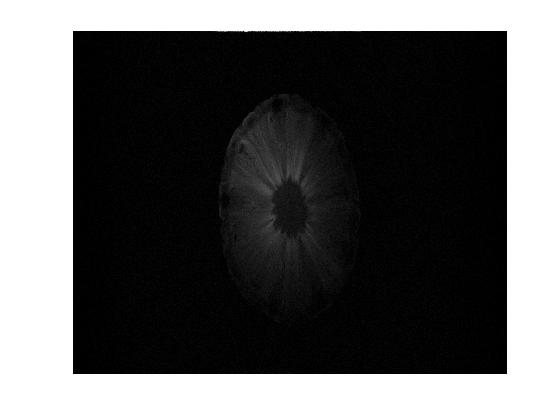
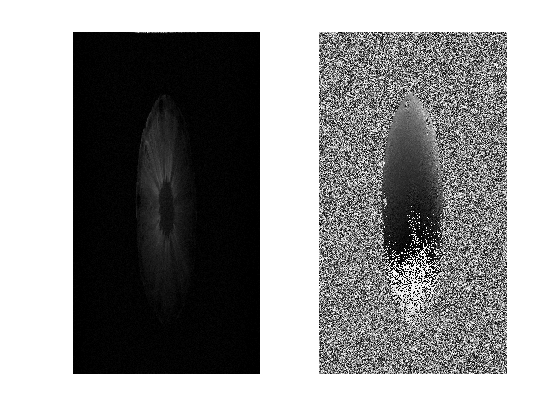
updated for plotting and taking absolute value after rss"

diff --git a/homework/hw1/html/MR_hw1_3.html b/homework/hw1/html/MR_hw1_3.html
@@ -84,21 +84,25 @@ figure
 <span class="keyword">end</span>
 </pre><img vspace="5" hspace="5" src="MR_hw1_3_01.png" alt=""> <img vspace="5" hspace="5" src="MR_hw1_3_02.png" alt=""> <h2>part 2<a name="3"></a></h2><pre class="codeinput">im = zeros(size(data));
 <span class="keyword">for</span> i=1:size(data,3)
-    temp = fftshift(fft2(ifftshift(data(:,:,i))));
+    temp = ifftshift(fft2(fftshift(data(:,:,i))));
     im(:,:,1) = temp;
 <span class="keyword">end</span>
 
 im_rss = zeros(size(im(:,:,1)));
 <span class="keyword">for</span> i=1:size(im,1)
     <span class="keyword">for</span> j=1:size(im,2)
-        im_rss(i,j) = sqrt(sum(abs(im(i,j,:)).^2));
+        im_rss(i,j) = sqrt(sum(im(i,j,:).^2));
     <span class="keyword">end</span>
 <span class="keyword">end</span>
 
 figure
-imagesc(im_rss); axis <span class="string">off</span>
+subplot(1,2,1)
+imagesc(abs(im_rss)); axis <span class="string">off</span>
 colormap(gray)
-caxis([(min(min(im_rss))/10) max(max(im_rss))])
+
+subplot(1,2,2)
+imagesc(angle(im_rss)); axis <span class="string">off</span>
+colormap(gray)
 </pre><img vspace="5" hspace="5" src="MR_hw1_3_03.png" alt=""> <p class="footer"><br><a href="http://www.mathworks.com/products/matlab/">Published with MATLAB&reg; R2015a</a><br></p></div><!--
 ##### SOURCE BEGIN #####
 clear all
@@ -124,21 +128,25 @@ end
 
 im = zeros(size(data));
 for i=1:size(data,3)
-    temp = fftshift(fft2(ifftshift(data(:,:,i))));
+    temp = ifftshift(fft2(fftshift(data(:,:,i))));
     im(:,:,1) = temp;
 end
 
 im_rss = zeros(size(im(:,:,1)));
 for i=1:size(im,1)
     for j=1:size(im,2)
-        im_rss(i,j) = sqrt(sum(abs(im(i,j,:)).^2));
+        im_rss(i,j) = sqrt(sum(im(i,j,:).^2));
     end
 end
 
 figure
-imagesc(im_rss); axis off
+subplot(1,2,1)
+imagesc(abs(im_rss)); axis off
 colormap(gray)
-caxis([(min(min(im_rss))/10) max(max(im_rss))])
+
+subplot(1,2,2)
+imagesc(angle(im_rss)); axis off
+colormap(gray)
 
 ##### SOURCE END #####
 --></body></html>

diff --git a/homework/hw1/MR_hw1_3.m b/homework/hw1/MR_hw1_3.m
@@ -21,18 +21,22 @@ end
 
 im = zeros(size(data));
 for i=1:size(data,3)
-    temp = fftshift(fft2(ifftshift(data(:,:,i))));
+    temp = ifftshift(fft2(fftshift(data(:,:,i))));
     im(:,:,1) = temp;
 end
 
 im_rss = zeros(size(im(:,:,1)));
 for i=1:size(im,1)
     for j=1:size(im,2)
-        im_rss(i,j) = sqrt(sum(abs(im(i,j,:)).^2));
+        im_rss(i,j) = sqrt(sum(im(i,j,:).^2));
     end
 end
 
 figure
-imagesc(im_rss); axis off
+subplot(1,2,1)
+imagesc(abs(im_rss)); axis off
 colormap(gray)
-caxis([(min(min(im_rss))/10) max(max(im_rss))])
+
+subplot(1,2,2)
+imagesc(angle(im_rss)); axis off
+colormap(gray)
